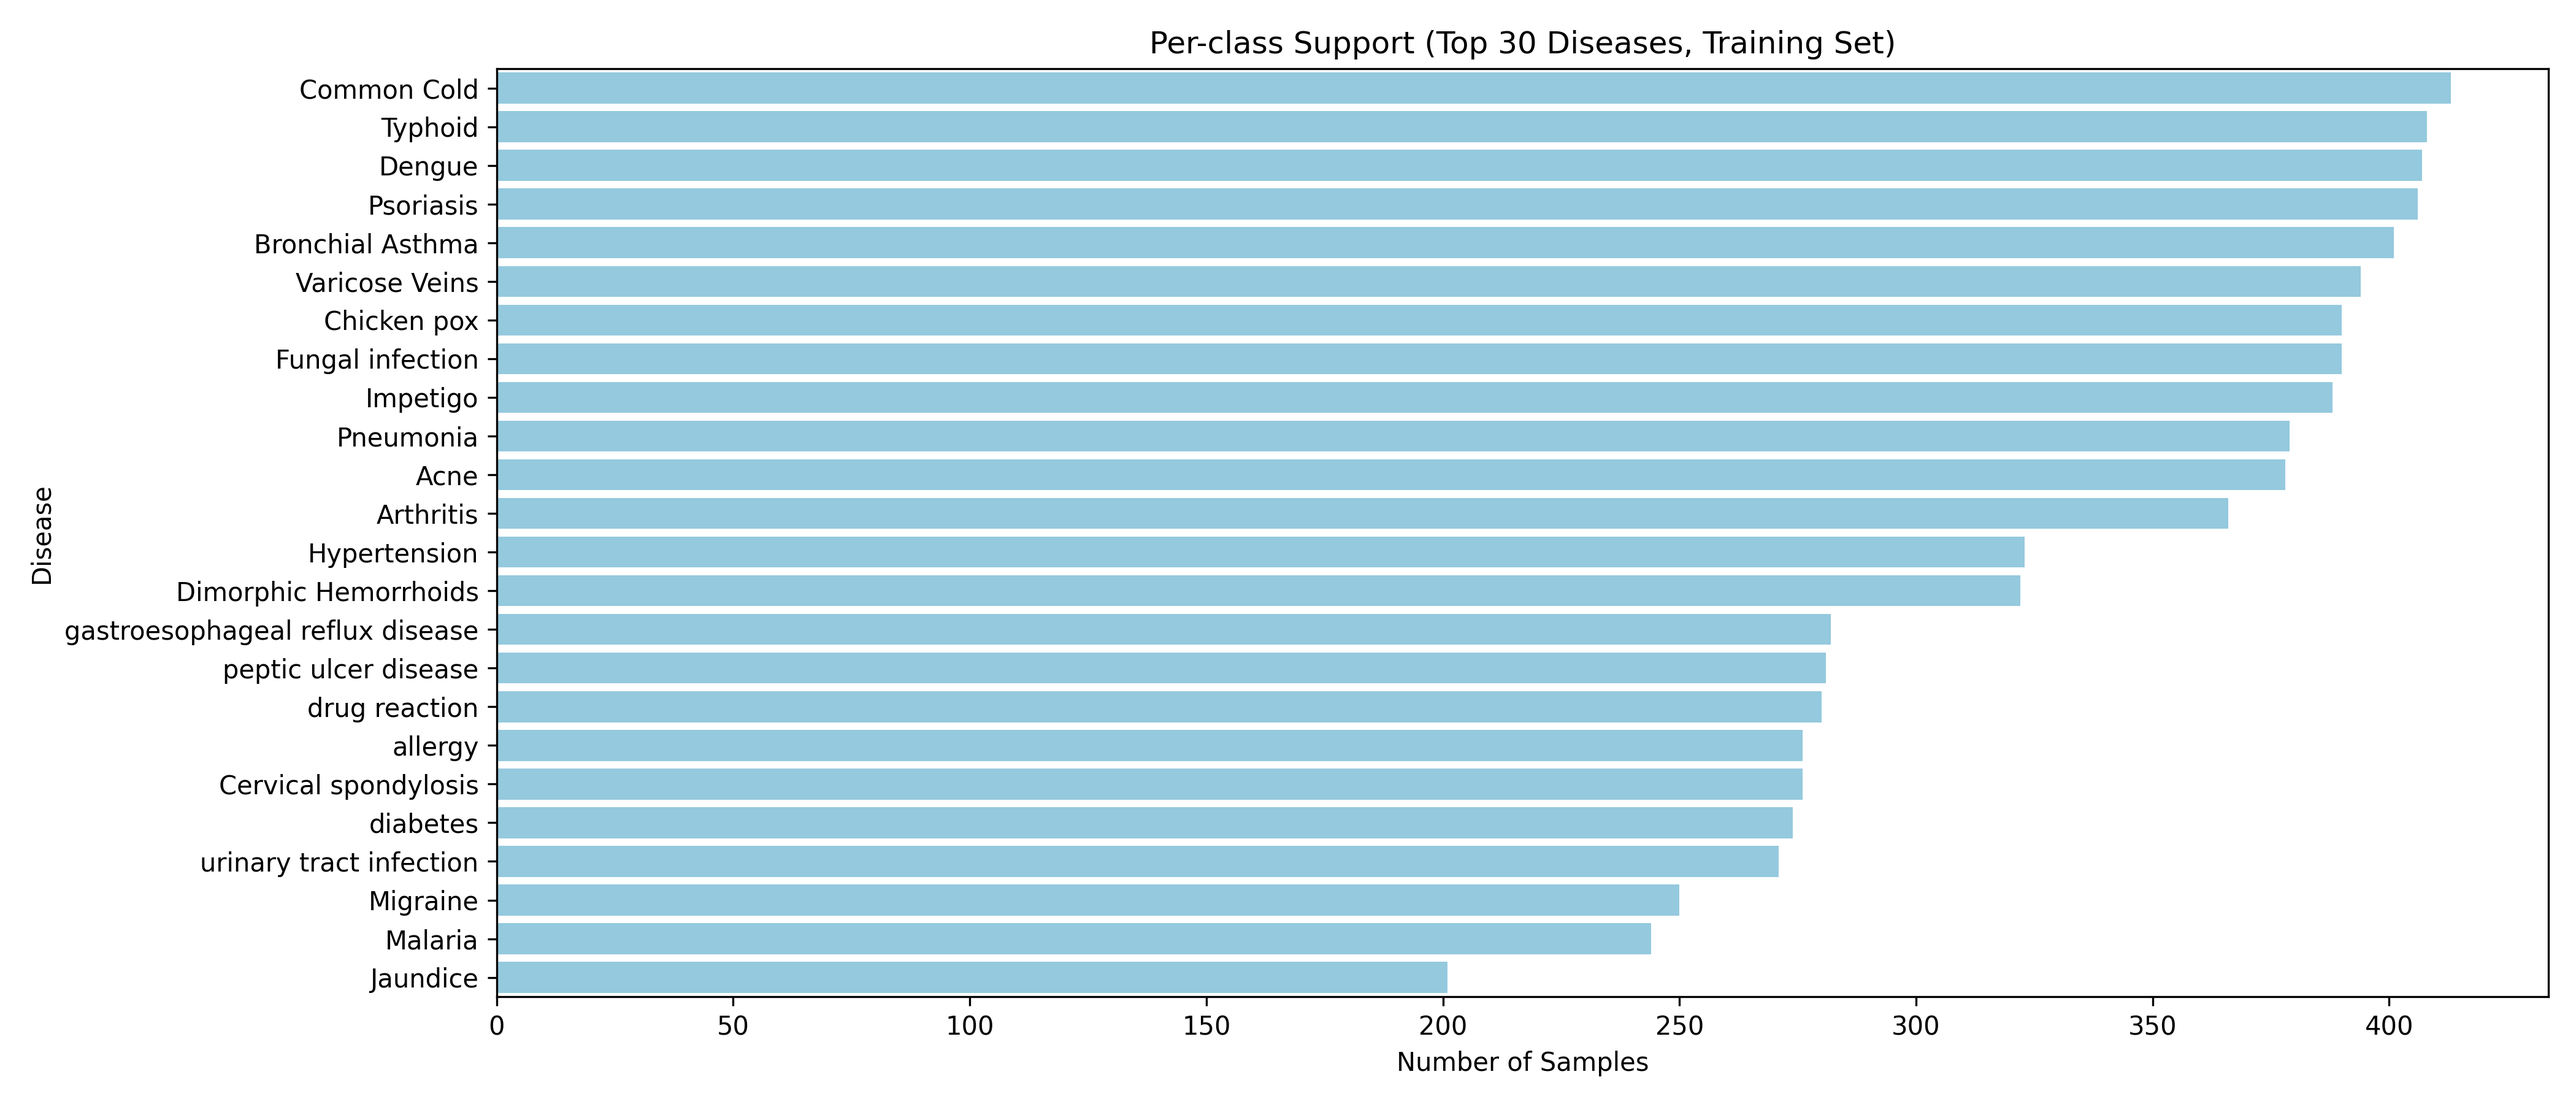
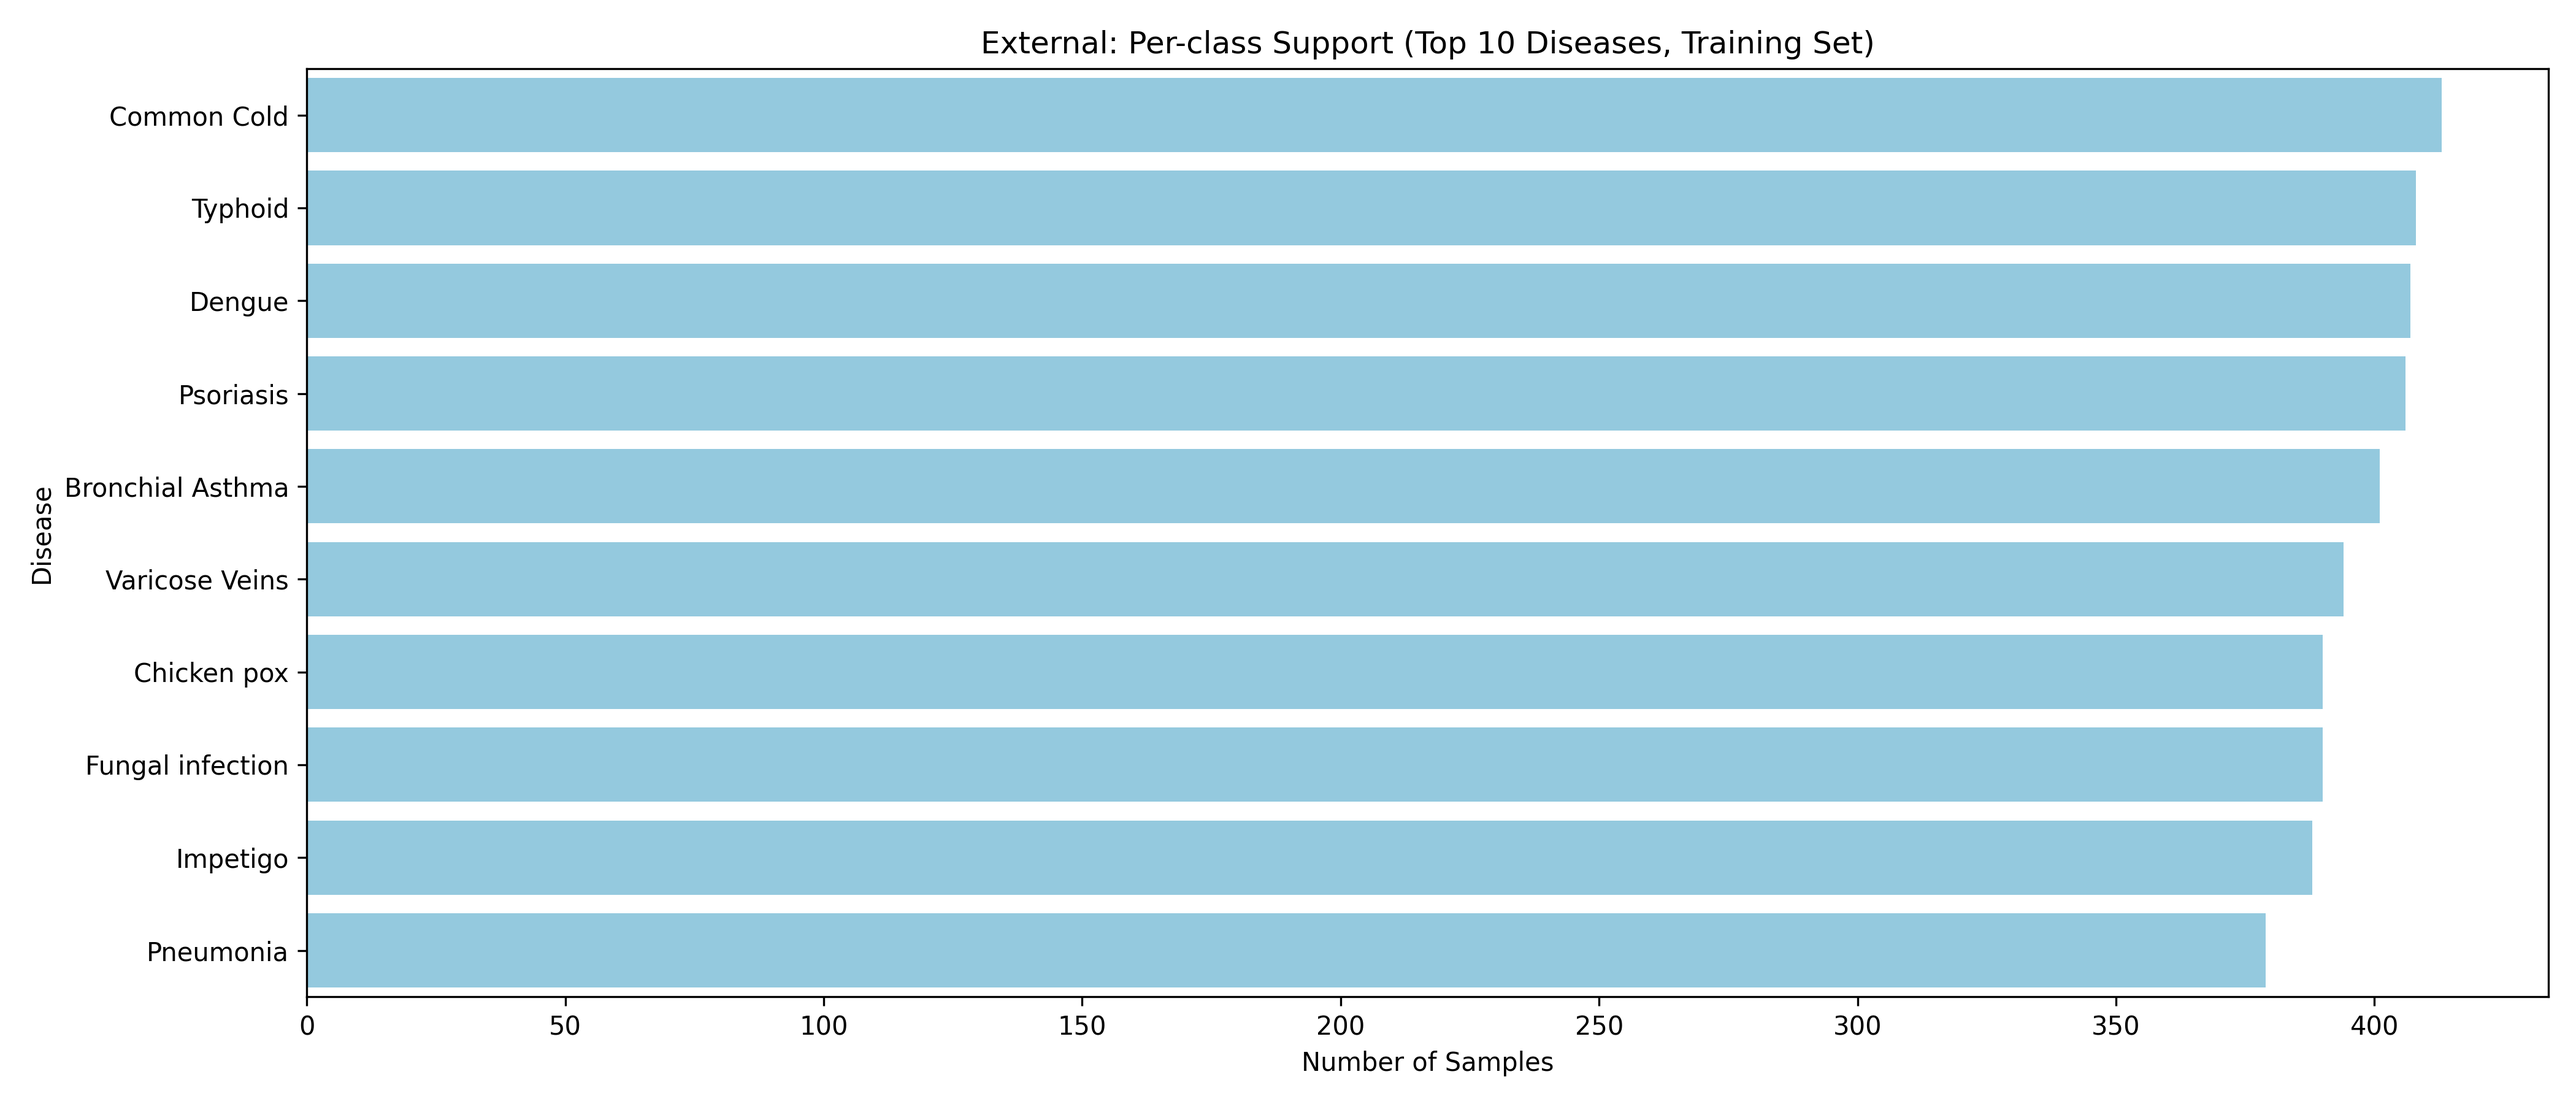
Made changes to code by adding multiple diagrams. Hopefully is presentation ready now

diff --git a/External_Validation/external_val_disease_prediction_text.py b/External_Validation/external_val_disease_prediction_text.py
@@ -66,12 +66,12 @@ y_train_full = le.fit_transform(labels_train)
 
 # --- Per-class Support Plot (on TRAIN set) ---
 support_count = Counter(y_train_full)
-classes_sorted = [i for i, _ in support_count.most_common(30)]
+classes_sorted = [i for i, _ in support_count.most_common(10)]
 class_labels = [le.classes_[i] for i in classes_sorted]
 support_vals = [support_count[i] for i in classes_sorted]
 plt.figure(figsize=(14, 6))
 sns.barplot(x=support_vals, y=class_labels, orient='h', color='skyblue')
-plt.title('Per-class Support (Top 30 Diseases, Training Set)')
+plt.title('External: Per-class Support (Top 10 Diseases, Training Set)')
 plt.xlabel('Number of Samples')
 plt.ylabel('Disease')
 plt.tight_layout()
@@ -241,6 +241,19 @@ plot_confused_pairs_bar_global(pair_svm, "SVM",
     save_path="Outputs/Error_Analysis/external_svm_confused_bar_AGGREGATED.png", top_n=7)
 plot_confused_pairs_bar_global(pair_mlp, "MLP",
     save_path="Outputs/Error_Analysis/external_mlp_confused_bar_AGGREGATED.png", top_n=7)
+
+# Top-10 feature importances (Random Forest on test set)
+importances = rf.feature_importances_
+indices = importances.argsort()[::-1]
+feature_names = vectorizer.get_feature_names_out()
+
+plt.figure(figsize=(12, 5))
+plt.title("Top 10 Feature Importances (Random Forest)")
+plt.bar(range(10), importances[indices[:10]], align='center')
+plt.xticks(range(10), feature_names[indices[:10]], rotation=45)
+plt.tight_layout()
+plt.show()
+print("Top features:", [feature_names[i] for i in indices[:10]])
 
 # --- (6) Save summary tables ---
 summary = pd.DataFrame({

diff --git a/Internal_Validation/internal_val_disease_prediction_text.py b/Internal_Validation/internal_val_disease_prediction_text.py
@@ -51,12 +51,12 @@ y = le.fit_transform(labels)
 
 # --- (1) Per-class Support Plot ---
 support_count = Counter(y)
-classes_sorted = [i for i, _ in support_count.most_common(30)]
+classes_sorted = [i for i, _ in support_count.most_common(10)]
 class_labels = [le.classes_[i] for i in classes_sorted]
 support_vals = [support_count[i] for i in classes_sorted]
 plt.figure(figsize=(14, 6))
 sns.barplot(x=support_vals, y=class_labels, orient='h', color='skyblue')
-plt.title('Per-class Support (Top 30 Diseases)')
+plt.title('Internal: Per-class Support (Top 10 Diseases)')
 plt.xlabel('Number of Samples')
 plt.ylabel('Disease')
 plt.tight_layout()
@@ -225,6 +225,19 @@ plot_confused_pairs_bar_global(pair_svm, "SVM",
     save_path="Outputs/Error_Analysis/internal_svm_confused_bar_AGGREGATED.png", top_n=7)
 plot_confused_pairs_bar_global(pair_mlp, "MLP",
     save_path="Outputs/Error_Analysis/internal_mlp_confused_bar_AGGREGATED.png", top_n=7)
+
+# Top-10 feature importances (Random Forest on test set)
+importances = rf.feature_importances_
+indices = importances.argsort()[::-1]
+feature_names = vectorizer.get_feature_names_out()
+
+plt.figure(figsize=(12, 5))
+plt.title("Top 10 Feature Importances (Random Forest)")
+plt.bar(range(10), importances[indices[:10]], align='center')
+plt.xticks(range(10), feature_names[indices[:10]], rotation=45)
+plt.tight_layout()
+plt.show()
+print("Top features:", [feature_names[i] for i in indices[:10]])
 
 # --- (6) Save summary tables ---
 summary = pd.DataFrame({
